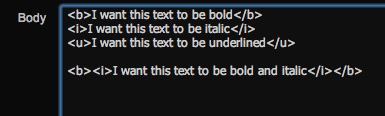
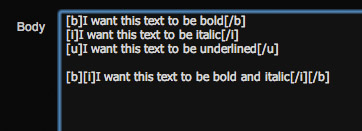
committing todays show stoppers.

Changed region(s): [[0.0304, 0.0259, 1.0, 1.0]]

diff --git a/js/blogs/editpost.js b/js/blogs/editpost.js
@@ -51,8 +51,9 @@ var objects = new Array();
 	  {
 		  content = content.replace("<Object "+i+">", "");
 	  }
-	  content = content.replace( /\u2018|\u2019|\u201A|\uFFFD/g, "'" );
-   	  content = content.replace( /\u201c|\u201d|\u201e/g, '"' );
+      content = content.replace(/&/g, "&#38;"); // needs to be the first thing we do otherwise it will replace all & in entities
+	  content = content.replace( /\u2018|\u2019|\u201A|\uFFFD|\u0027/g, "&#39;" );
+   	  content = content.replace( /\u201c|\u201d|\u201e|\u0022/g, '&#34;' );
       content = content.replace( /\u02C6/g, '^' );
       content = content.replace( /\u2039/g, '<' );
       content = content.replace( /\u203A/g, '>' );
@@ -65,7 +66,8 @@ var objects = new Array();
       content = content.replace( /\u00BC/g, '1/4' );
       content = content.replace( /\u00BD/g, '1/2' );
       content = content.replace( /\u00BE/g, '3/4' );
-      content = content.replace(/[\u02DC|\u00A0]/g, " ");
+	  content = content.replace(/\u20AC/g, "&#8364;");
+	  content = content.replace(/[\u02DC|\u00A0]/g, " ");
 	  var paragraphs = content.split("\n");
       var newcontent = new Array();
 	  var pattern = /\s+/g; // all white space characters (selecting consecutive as one) not stopping at the first (\n \t space etc...)
@@ -94,9 +96,9 @@ var objects = new Array();
 	  {
 	    var end = excerpt.lastIndexOf(' ');
 	    if (end != -1)
-	      excerpt = excerpt.substring(0, end);
+	      excerpt = excerpt.substring(0, end)+'...';
 	  }
-	  return excerpt;
+	  return encodeURIComponent(excerpt);
   }
   
   function serializeThumbnail(element) // causing problems in ie7 if first photo was deleted
@@ -155,12 +157,12 @@ var objects = new Array();
 		}
 	  }
 	  // keeps backward <> compatability with objects - converts to bbcode
-	  body = body.replace("<u>", "[u]");
-	  body = body.replace("</u>", "[/u]");
-	  body = body.replace("<i>", "[i]");
-	  body = body.replace("</i>", "[/i]");
-	  body = body.replace("<b>", "[b]");
-	  body = body.replace("</b>", "[/b]");
+	  body = body.replace(/<u>/g, "[u]");
+	  body = body.replace(/<\/u>/g, "[/u]");
+	  body = body.replace(/<i>/g, "[i]");
+	  body = body.replace(/<\/i>/g, "[/i]");
+	  body = body.replace(/<b>/g, "[b]");
+	  body = body.replace(/<\/b>/g, "[/b]");
 	  
 	  return body;
   }
@@ -564,6 +566,13 @@ function unpackPost(response)
 	    addLink(newLink);
 	  }
 	}
+	// keeps backward <> compatability with objects - converts to bbcode
+	$('#originalPostBody').val($('#originalPostBody').val().replace(/<u>/g, "[u]"));
+	$('#originalPostBody').val($('#originalPostBody').val().replace(/<\/u>/g, "[/u]"));
+	$('#originalPostBody').val($('#originalPostBody').val().replace(/<i>/g, "[i]"));
+	$('#originalPostBody').val($('#originalPostBody').val().replace(/<\/i>/g, "[/i]"));
+	$('#originalPostBody').val($('#originalPostBody').val().replace(/<b>/g, "[b]"));
+	$('#originalPostBody').val($('#originalPostBody').val().replace(/<\/b>/g, "[/b]"));
 	$('#postBody').val($('#originalPostBody').val());
 	$('#originalPostBody').empty().remove();
 	$('#postBody').TextAreaExpander(260, 1000);

diff --git a/js/api.js b/js/api.js
@@ -640,10 +640,11 @@ function API()
 	  return this.internalSerializeString(content, false);
   };
   
-  // serializes string into utf-8 compliant string. internal line breaks (\n character) converted into \ and n characters
+  // serializes string to be utf-8 compliant. Internal line breaks (\n character) converted into \ and n characters
   this.internalSerializeString = function (content, formatting) {
-	  content = content.replace( /\u2018|\u2019|\u201A|\uFFFD/g, "'" );
-   	  content = content.replace( /\u201c|\u201d|\u201e/g, '"' );
+	  content = content.replace(/&/g, "&#38;"); // needs to be the first thing we do otherwise it will replace all & in entities
+	  content = content.replace( /\u2018|\u2019|\u201A|\uFFFD|\u0027/g, "&#39;" );
+   	  content = content.replace( /\u201c|\u201d|\u201e|\u0022/g, '&#34;' );
       content = content.replace( /\u02C6/g, '^' );
       content = content.replace( /\u2039/g, '<' );
       content = content.replace( /\u203A/g, '>' );
@@ -656,7 +657,8 @@ function API()
       content = content.replace( /\u00BC/g, '1/4' );
       content = content.replace( /\u00BD/g, '1/2' );
       content = content.replace( /\u00BE/g, '3/4' );
-      content = content.replace(/[\u02DC|\u00A0]/g, " ");
+	  content = content.replace(/\u20AC/g, "&#8364;");
+	  content = content.replace(/[\u02DC|\u00A0]/g, " ");
 	  var paragraphs = content.split("\n");
       var newcontent = new Array();
 	  var pattern = /\s+/g; // all white space characters (selecting consecutive as one) not stopping at the first (\n \t space etc...)

diff --git a/css/core.css b/css/core.css
@@ -152,7 +152,7 @@ sup.terms { padding-left: 2px; color: #666; font-size: 10px; }
 
 .UIpanel { overflow: auto; padding: 10px; background: #0a0a0a; border: 1px solid #0e0e0e; -webkit-border-radius: 8px; -moz-border-radius: 8px; border-radius: 8px; }
 .UIpanel .UIheading { overflow: auto; margin-bottom: 10px; color: #777; }
-.UIpanel .UIheading h3 { float: left; margin: 0; color: #ddd; line-height: 1.33em; padding-left: 12px; background: url(../../images/core/icons/single_pink_chevron.png) center left no-repeat; } /* remove color attribute to restore heading style */
+.UIpanel .UIheading h3 { float: left; margin: 0; color: #ddd; line-height: 1.33em; padding-left: 12px; background: url(../../images/core/sprite.png) -169px -52px no-repeat; } /* remove color attribute to restore heading style */
 .UIpanel .UIheading .UIcontrol { float: right; }
 
 .box { background: url(../../images/core/gradients/box.png) bottom repeat-x #121212; }

diff --git a/pages/blogs/editblog.php b/pages/blogs/editblog.php
@@ -31,8 +31,7 @@ switch ($action)
    							exit(); 
 						}
 						$resourceManager = new ResourceDependancyManager('blogs/dashboard', 'js');
-						$resourceManager->addResource('jquery.js');
-						$resourceManager->addResource('api.js');
+						require_once($globalDir.'pages\\includes\\core_js.php');
 						$pageData['jsFile'] = $resourceManager->build();
 						$smarty->assign('blogContributors', $blogContributors);
 						$page = 'templates/dashboard.tpl';
@@ -40,8 +39,7 @@ switch ($action)
 					 
 	case 'new' :        $page = 'templates/editpost.tpl';
 						$resourceManager = new ResourceDependancyManager('blogs/editpost', 'js');
-						$resourceManager->addResource('jquery.js');
-						$resourceManager->addResource('api.js');
+						require_once($globalDir.'pages\\includes\\core_js.php');
 						$resourceManager->addResource('pnobject-linkify.js');
 						$resourceManager->addResource('jquery.textarea-expander.js');
 						$resourceManager->addResource('blogs/editpost.js');
@@ -77,8 +75,7 @@ switch ($action)
         					exit(); 
 					    }
 						$resourceManager = new ResourceDependancyManager('blogs/editpost', 'js');
-						$resourceManager->addResource('jquery.js');
-						$resourceManager->addResource('api.js');
+						require_once($globalDir.'pages\\includes\\core_js.php');
 						$resourceManager->addResource('pnobject-linkify.js');
 						$resourceManager->addResource('jquery.textarea-expander.js');
 						$resourceManager->addResource('blogs/editpost.js');
@@ -103,8 +100,7 @@ switch ($action)
                           $post->created = API::GetDateString((int)$post->created);
                         }
 						$resourceManager = new ResourceDependancyManager('blogs/manage', 'js');
-						$resourceManager->addResource('jquery.js');
-						$resourceManager->addResource('api.js');
+						require_once($globalDir.'pages\\includes\\core_js.php');
 						$resourceManager->addResource('corners.js');
 						$resourceManager->addResource('blogs/manage.js');
 						$pageData['jsFile'] = $resourceManager->build();
@@ -134,8 +130,7 @@ switch ($action)
        						exit(); 
 					    }
 						$resourceManager = new ResourceDependancyManager('blogs/editblog', 'js');
-						$resourceManager->addResource('jquery.js');
-						$resourceManager->addResource('api.js');
+						require_once($globalDir.'pages\\includes\\core_js.php');
 						$resourceManager->addResource('jquery.textarea-expander.js');
 						$resourceManager->addResource('blogs/editblog.js');
 						$pageData['jsFile'] = $resourceManager->build();
@@ -147,34 +142,31 @@ switch ($action)
 						$pageData['blogIdHash'] = md5($blog->id);
 						$page = 'templates/insights.tpl';
 						$resourceManager = new ResourceDependancyManager('blogs/insights', 'js');
-						$resourceManager->addResource('jquery.js');
-						$resourceManager->addResource('api.js');
+						require_once($globalDir.'pages\\includes\\core_js.php');
 						$pageData['jsFile'] = $resourceManager->build();
 	                    break;
 					 
 	case 'guide' :      $page = 'templates/guide.tpl';
 						$resourceManager = new ResourceDependancyManager('blogs/guide', 'js');
-						$resourceManager->addResource('jquery.js');
-						$resourceManager->addResource('api.js');
+						require_once($globalDir.'pages\\includes\\core_js.php');
 						$pageData['jsFile'] = $resourceManager->build();
 	                    break;
 					 
 	default :           $page = 'templates/overview.tpl';
 						$resourceManager = new ResourceDependancyManager('blogs/dashboard', 'js');
-						$resourceManager->addResource('jquery.js');
-						$resourceManager->addResource('api.js');
+						require_once($globalDir.'pages\\includes\\core_js.php');
 						$pageData['jsFile'] = $resourceManager->build();
 	                    break;
 }
 
 $resourceManager = new ResourceDependancyManager('blogs/editblog', 'css');
-$resourceManager->addResource('blueprint/screen.css');
-$resourceManager->addResource('core.css');
+require_once($globalDir.'pages\\includes\\core_css.php');
 $resourceManager->addResource('blogs.css');
 $pageData['cssFile'] = $resourceManager->build();
 
 $smarty->assign('pageData', $pageData);
 $smarty->assign('uri', $_SERVER['REQUEST_URI']);
 $smarty->assign('blog', $blog);
+$smarty->loadFilter('output', 'trimwhitespace');
 $smarty->display($page);
 ?>

diff --git a/pages/includes/global.php b/pages/includes/global.php
@@ -1,11 +1,11 @@
 <?php
 
-$global = "c:\\inetpub\\wwwroot\\www.projectnightlife.co.uk\\";
+// $globalDir; already set in calling php page
 
 // load Smarty library
 require('Smarty.class.php');
-require($global.'backend\\global_include.php');
-require($global.'pages\\includes\\autolink.php');
+require($globalDir.'backend\\global_include.php');
+require($globalDir.'pages\\includes\\autolink.php');
 
 // Authenticate with the Project Nightlife api
 API::Authenticate();
@@ -61,6 +61,11 @@ if (API::isUserLoggedIn())
 			$post = $blogService->GetPost($notification->information, false);
 			$session['notifications'][] = new notification($post->thumbnail, $post->title, "http://www.projectnightlife.co.uk/post/".$post->id, $post->excerpt,  API::GetDynamicDateString((int)$notification->date));
 		}
+		else if (strcmp($notification->type, "Comment") == 0)
+		{
+			$post = $blogService->GetPost($notification->information, false);
+			$session['notifications'][] = new notification($post->thumbnail, "New comments", "http://www.projectnightlife.co.uk/post/".$post->id."#comments", "On your post ".$post->title,  API::GetDynamicDateString((int)$notification->date));
+		}
 	}
 }
 
@@ -69,7 +74,7 @@ $smarty->assign('session', $session);
 //print '<div style="margin: 20px; background-color: #FDF07E; border: 1px solid #e7d118; color: #111; padding: 10px;"><p>We\'re currently reworking the genre system and as a result, its broken quite a lot of pages which rely on the old system.</p></div>';
 
 // Greenhill - 12/02/2011 - Load mobiledetect
-require_once($global."browscap\Mobile_Detect.php");
+require_once($globalDir."browscap\Mobile_Detect.php");
 @$mobiledetect = new Mobile_Detect();
 if ($mobiledetect->isMobile()) {
 	$smarty->assign("ismobile", "true");

diff --git a/pages/blogs/post.php b/pages/blogs/post.php
@@ -101,7 +101,7 @@ $pageData['postCreated'] = API::GetDynamicDateString((int)$post->created);
 $pageData['numCommentsLiteral'] = (int)$post->numComments == 1 ? ' comment' : ' comments';
 
 // escape invalid characters
-$post->body = (string) preg_replace("/&/", "&amp;", $post->body);
+$post->body = (string) preg_replace("/ & /", "&amp;", $post->body);
 $post->body = (string) preg_replace("/<(?!(pnobject|b>|u>|i>|\/b>|\/u>|\/i>))/", "&lt;", $post->body);
 
 //perform the XSL transformation to change object types into actual html
@@ -139,14 +139,12 @@ foreach ($comments as $key => $comment)
 }
 
 $resourceManager = new ResourceDependancyManager('blogs/post', 'css');
-$resourceManager->addResource('blueprint/screen.css');
-$resourceManager->addResource('core.css');
+require_once($globalDir.'pages\\includes\\core_css.php');
 $resourceManager->addResource('blogs.css');
 $pageData['cssFile'] = $resourceManager->build();
 
 $resourceManager = new ResourceDependancyManager('blogs/post', 'js');
-$resourceManager->addResource('jquery.js');
-$resourceManager->addResource('api.js');
+require_once($globalDir.'pages\\includes\\core_js.php');
 $resourceManager->addResource('ba-linkify.min.js');
 $resourceManager->addResource('blogs/post.js');
 $pageData['jsFile'] = $resourceManager->build();
@@ -164,6 +162,6 @@ if ($relatedBlogs->count() != 0)
   $smarty->assign('relatedBlogs', $relatedBlogs);
 }
 $smarty->assign('pageData', $pageData);
-
+$smarty->loadFilter('output', 'trimwhitespace');
 $smarty->display('templates/post.tpl');
 ?>

diff --git a/pages/blogs/blogs.php b/pages/blogs/blogs.php
@@ -98,14 +98,12 @@ foreach ($posts as $key => $post)
 }
 
 $resourceManager = new ResourceDependancyManager('blogs/blogs', 'css');
-$resourceManager->addResource('blueprint/screen.css');
-$resourceManager->addResource('core.css');
+require_once($globalDir.'pages\\includes\\core_css.php');
 $resourceManager->addResource('blogs.css');
 $pageData['cssFile'] = $resourceManager->build();
 
 $resourceManager = new ResourceDependancyManager('blogs/blogs', 'js');
-$resourceManager->addResource('jquery.js');
-$resourceManager->addResource('api.js');
+require_once($globalDir.'pages\\includes\\core_js.php');
 $resourceManager->addResource('jquery.color.js');
 $resourceManager->addResource('corners.js');
 $resourceManager->addResource('blogs/blogs.js');
@@ -115,6 +113,8 @@ $smarty->assign('pageData', $pageData);
 $smarty->assign('featuredPosts', $featuredPosts);
 $smarty->assign('posts', $posts);
 $smarty->assign('blogs', $blogs);
+
+$smarty->loadFilter('output', 'trimwhitespace');
 $smarty->display('templates/blogs.tpl');
 
 $timeparts = explode(" ",microtime());

diff --git a/pages/blogs/blog.php b/pages/blogs/blog.php
@@ -86,14 +86,12 @@ foreach ($posts as $key => $post)
 }
 
 $resourceManager = new ResourceDependancyManager('blogs/blog', 'css');
-$resourceManager->addResource('blueprint/screen.css');
-$resourceManager->addResource('core.css');
+require_once($globalDir.'pages\\includes\\core_css.php');
 $resourceManager->addResource('blogs.css');
 $pageData['cssFile'] = $resourceManager->build();
 
 $resourceManager = new ResourceDependancyManager('blogs/blog', 'js');
-$resourceManager->addResource('jquery.js');
-$resourceManager->addResource('api.js');
+require_once($globalDir.'pages\\includes\\core_js.php');
 $resourceManager->addResource('corners.js');
 $resourceManager->addResource('blogs/blog.js');
 $pageData['jsFile'] = $resourceManager->build();
@@ -112,5 +110,6 @@ if ($subscribers->count() != 0)
   $smarty->assign('subscribers', $subscribers);
 }
 $smarty->assign('pageData', $pageData);
+$smarty->loadFilter('output', 'trimwhitespace');
 $smarty->display('templates/blog.tpl');
 ?>

diff --git a/backend/global_include.php b/backend/global_include.php
@@ -1,15 +1,15 @@
 <?php
 //remeber this will be called in context of pages... so paths start from root
 
-$globalDir = "c:\\inetpub\\wwwroot\\www.projectnightlife.co.uk\\backend\\";
+$globalDir = "c:\\inetpub\\wwwroot\\www.projectnightlife.co.uk\\";
 
-include_once($globalDir."Credentials.php");
-include_once($globalDir."FacebookAuth.php");
-include_once($globalDir."WebService.php");
-include_once($globalDir."api.php");
-include_once($globalDir."facebook.php");
-include_once($globalDir."notification.php");
-include_once($globalDir."ResourceDependancyManager.php");
+include_once($globalDir."backend\\Credentials.php");
+include_once($globalDir."backend\\FacebookAuth.php");
+include_once($globalDir."backend\\WebService.php");
+include_once($globalDir."backend\\api.php");
+include_once($globalDir."backend\\facebook.php");
+include_once($globalDir."backend\\notification.php");
+include_once($globalDir."backend\\ResourceDependancyManager.php");
 
 
 ?>

diff --git a/pages/user/notifications.php b/pages/user/notifications.php
@@ -32,16 +32,15 @@ foreach ($rawNotifications as $notification)
 }
 
 $resourceManager = new ResourceDependancyManager('notifications', 'css');
-$resourceManager->addResource('blueprint/screen.css');
-$resourceManager->addResource('core.css');
+require_once($globalDir.'pages\\includes\\core_css.php');
 $pageData['cssFile'] = $resourceManager->build();
 
 $resourceManager = new ResourceDependancyManager('notifications', 'js');
-$resourceManager->addResource('jquery.js');
-$resourceManager->addResource('api.js');
+require_once($globalDir.'pages\\includes\\core_js.php');
 $pageData['jsFile'] = $resourceManager->build();
 
 $smarty->assign('pageData', $pageData);
 $smarty->assign('notifications', $notifications);
+$smarty->loadFilter('output', 'trimwhitespace');
 $smarty->display('templates/notifications.tpl');
 ?>

diff --git a/pages/general/company/about.php b/pages/general/company/about.php
@@ -4,15 +4,14 @@ $globalDir = "c:\\inetpub\\wwwroot\\www.projectnightlife.co.uk\\";
 require_once($globalDir.'pages\\includes\\global.php');
 
 $resourceManager = new ResourceDependancyManager('about', 'css');
-$resourceManager->addResource('blueprint/screen.css');
-$resourceManager->addResource('core.css');
+require_once($globalDir.'pages\\includes\\core_css.php');
 $pageData['cssFile'] = $resourceManager->build();
 
 $resourceManager = new ResourceDependancyManager('about', 'js');
-$resourceManager->addResource('jquery.js');
-$resourceManager->addResource('api.js');
+require_once($globalDir.'pages\\includes\\core_js.php');
 $pageData['jsFile'] = $resourceManager->build();
 
 $smarty->assign('pageData', $pageData);
+$smarty->loadFilter('output', 'trimwhitespace');
 $smarty->display('templates/about.tpl');
 ?>

diff --git a/pages/general/opportunities/bloggers.php b/pages/general/opportunities/bloggers.php
@@ -16,16 +16,15 @@ catch (Exception $e)
 }
 
 $resourceManager = new ResourceDependancyManager('bloggers', 'css');
-$resourceManager->addResource('blueprint/screen.css');
-$resourceManager->addResource('core.css');
+require_once($globalDir.'pages\\includes\\core_css.php');
 $pageData['cssFile'] = $resourceManager->build();
 
 $resourceManager = new ResourceDependancyManager('bloggers', 'js');
-$resourceManager->addResource('jquery.js');
-$resourceManager->addResource('api.js');
+require_once($globalDir.'pages\\includes\\core_js.php');
 $pageData['jsFile'] = $resourceManager->build();
 
 $smarty->assign('pageData', $pageData);
 $smarty->assign('genres', $genres);
+$smarty->loadFilter('output', 'trimwhitespace');
 $smarty->display('templates/bloggers.tpl');
 ?>
